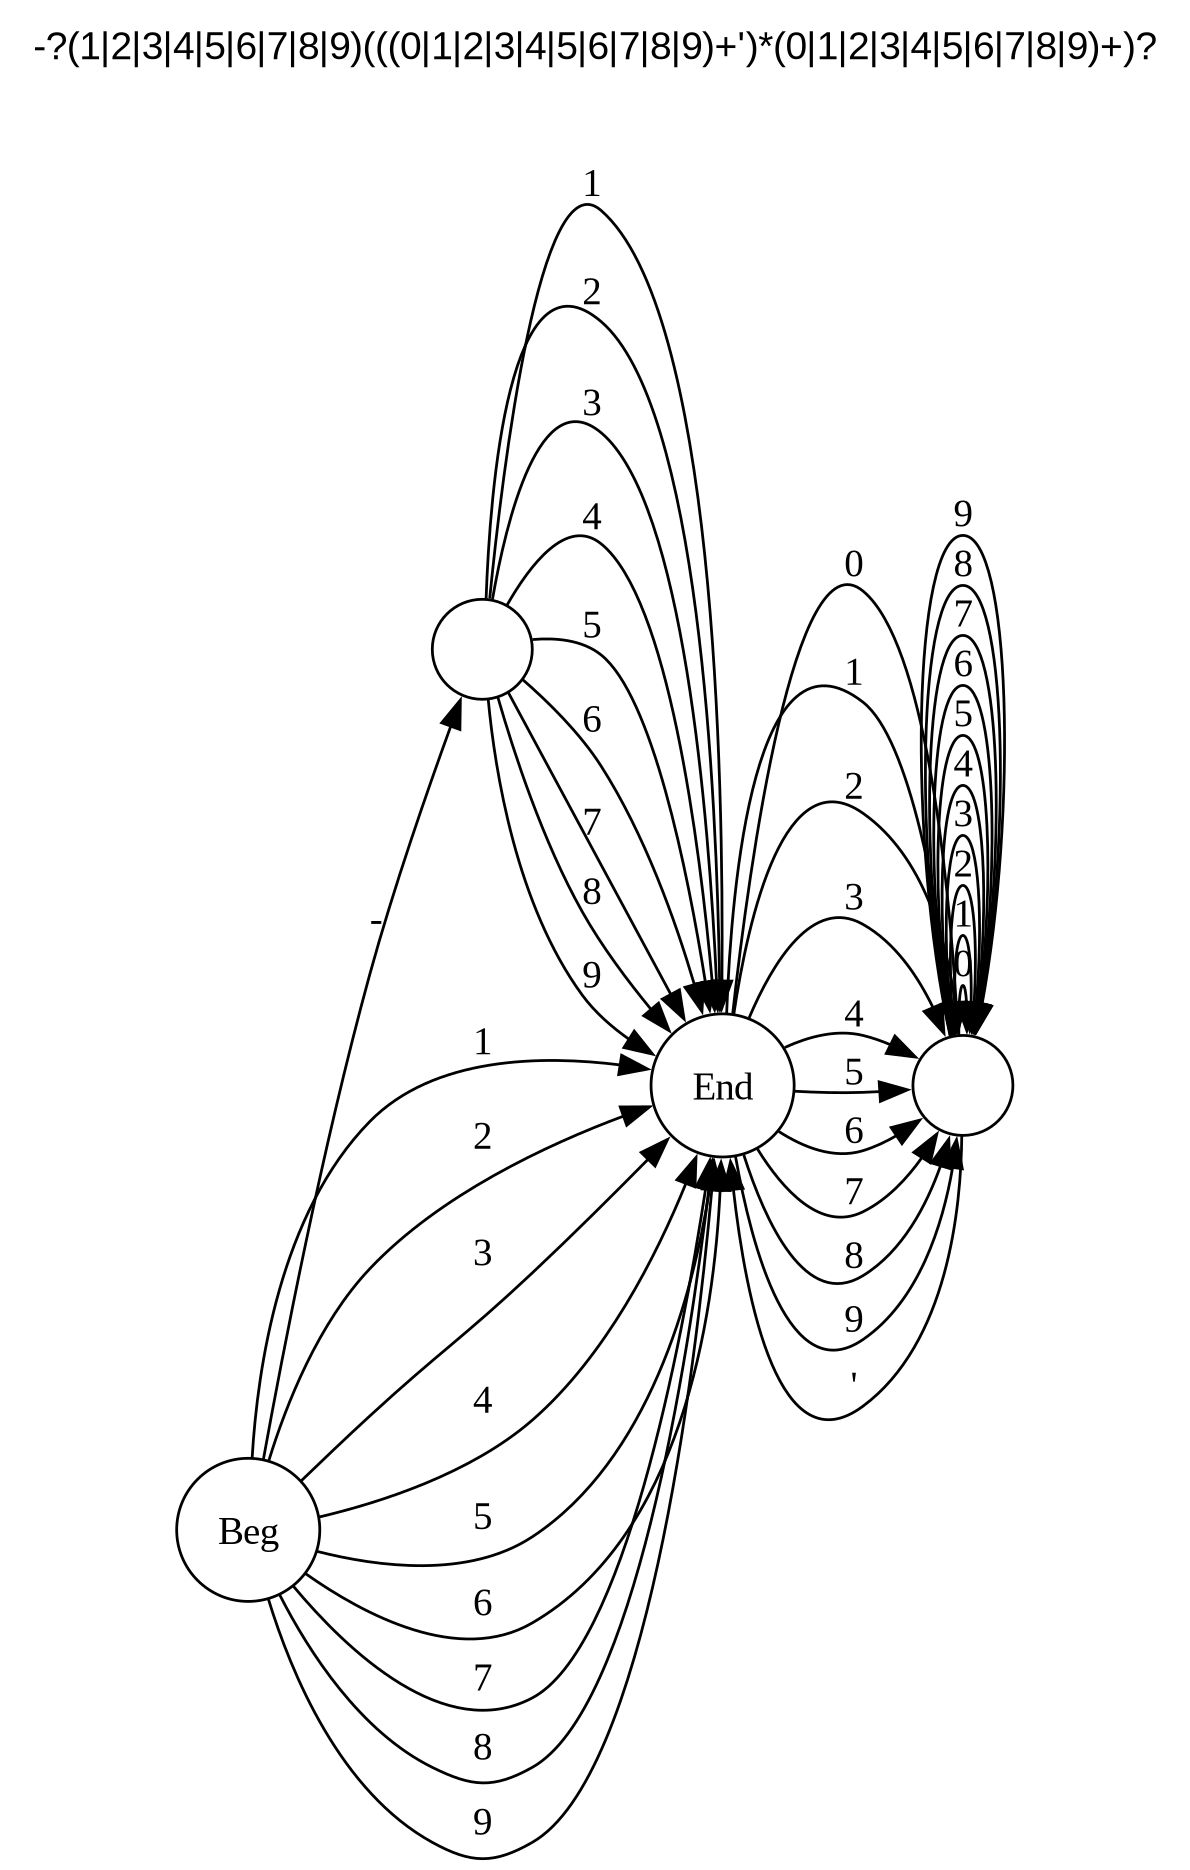
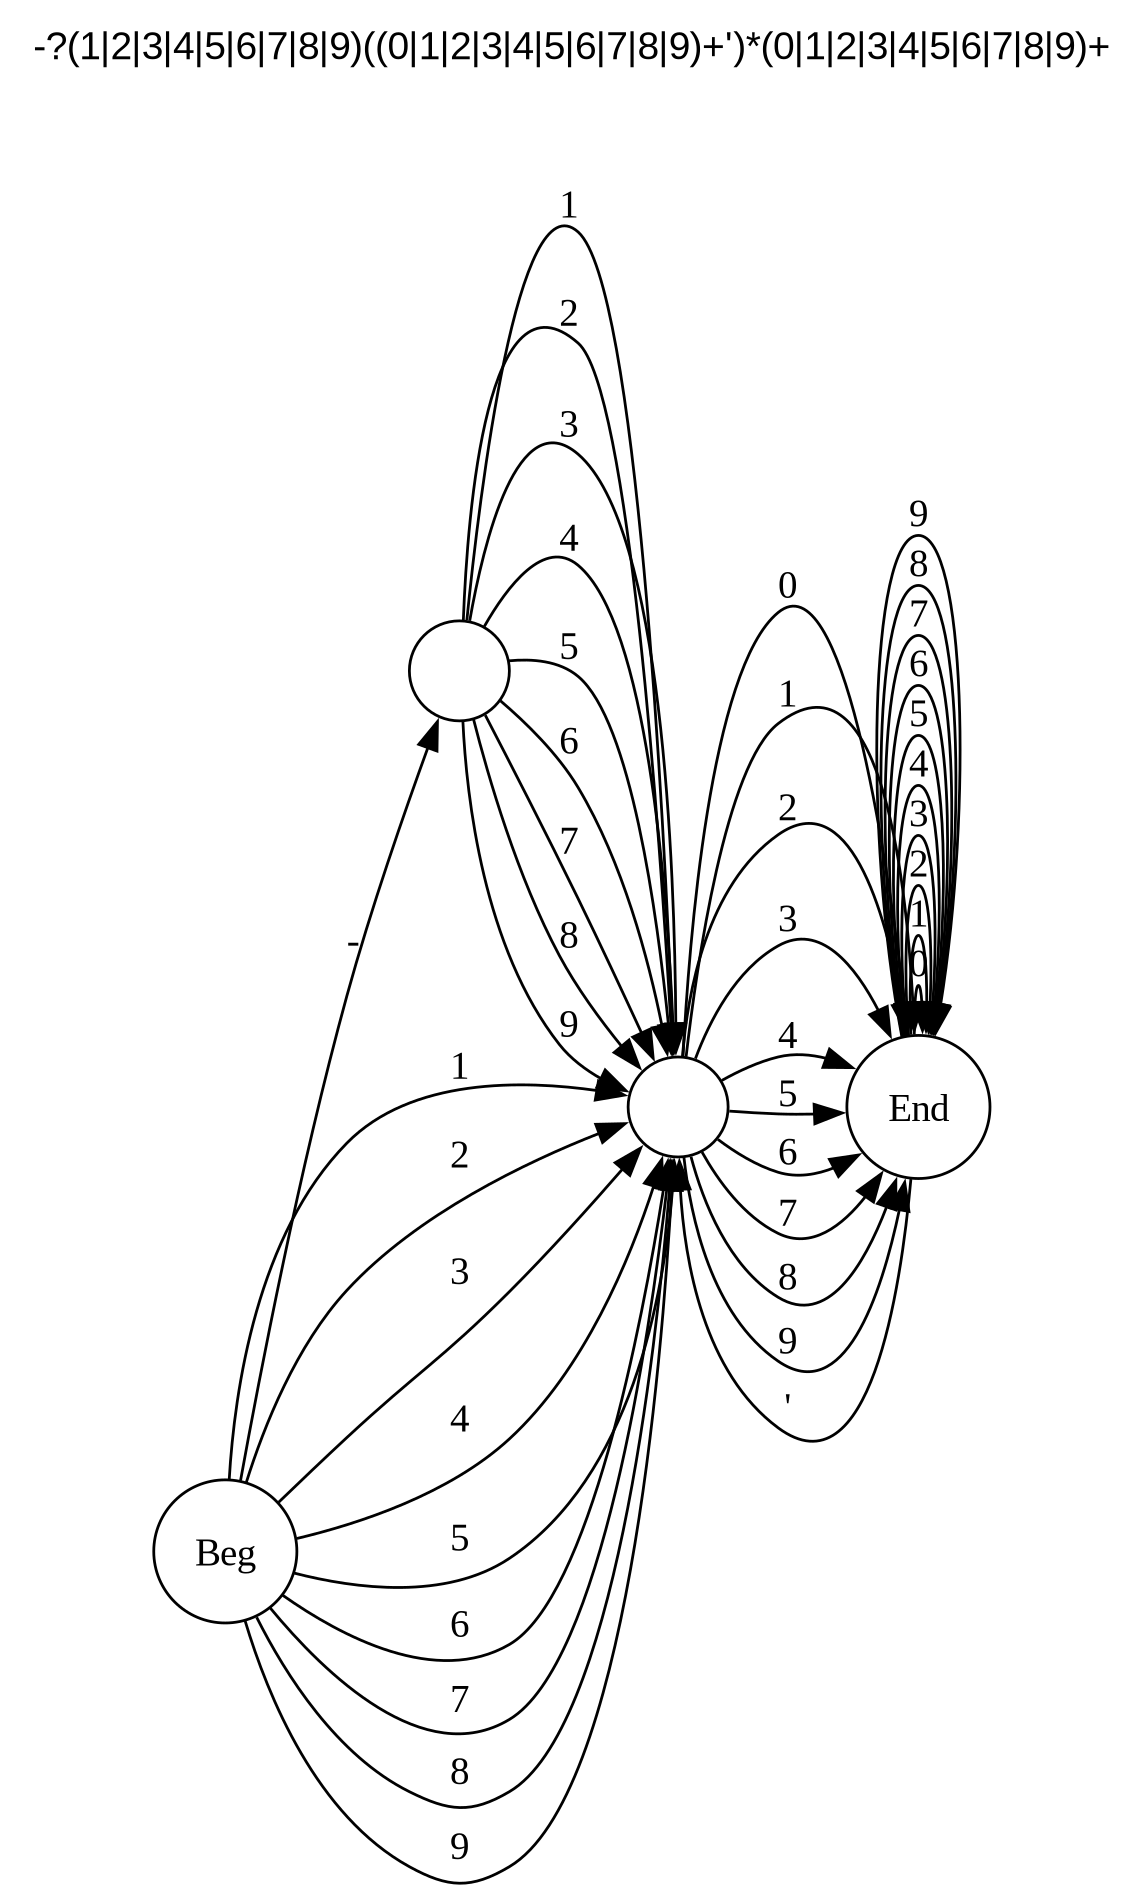
Finished regex int literal example

diff --git a/regex_main.cpp b/regex_main.cpp
@@ -23,17 +23,15 @@ namespace clk = std::chrono;
     "B|C|D|E|F|G|H|I|J|K|L|M|N|O|P|Q|R|S|T|U|V|W|X|Y|Z)"
 #define S "( |\t|\n)"
 
-#define H "(a|b|c|d|e|f|A|B|C|D|E|F)"
-#define HEX_RE "0(x|X)((" H "|" D ")+')*(" H "|" D ")+"
-#define OCTAL_RE                                               \
-    "(0|(0((0|1|2|3|4|5|6|7)+')*(0|1|2|3|4|5|6|7)+))"
+#define H "(a|b|c|d|e|f|A|B|C|D|E|F|0|1|2|3|4|5|6|7|8|9)"
+#define O "(0|1|2|3|4|5|6|7)"
+
+#define HEX_RE "0(x|X)(" H "+')*" H "+"
+#define OCTAL_RE "(0|0(" O "+')*" O "+)"
 #define BINARY_RE "0(b|B)((0|1)+')*(0|1)+"
-#define DECIMAL_RE                                             \
-    "-?(1|2|3|4|5|6|7|8|9)(((0|1|2|3|4|5|6|7|8|9)+')*(0|1|2|"  \
-    "3|4|5|6|7|8|9)+)?"
+#define DECIMAL_RE "-?(1|2|3|4|5|6|7|8|9)(" D "+')*" D "+"
 #define INT_RE                                                 \
-    "((" HEX_RE ")|(" DECIMAL_RE ")|(" OCTAL_RE                \
-    ")|(" BINARY_RE "))"
+    "(" HEX_RE "|" DECIMAL_RE "|" OCTAL_RE "|" BINARY_RE ")"
 
 ////////////////////////////////////////////////////////////////
 // Helper function(s)
@@ -154,18 +152,20 @@ int main()
     test_regex(OCTAL_RE, {"01'234'567'654", "0", "0'1'2'3"},
                {"012345678", "01234567'"});
 
-    test_regex(DECIMAL_RE, {}, {});
+    test_regex(DECIMAL_RE,
+               {"10", "-123", "516", "-9999", "-19'92"},
+               {"0", "-0", "12349A"});
 
     test_regex(HEX_RE, {"0x12'34'56'67'9A'bC'dd'ee'FF", "0x0"},
                {"0xG", "0x"});
 
     // Int literal example
     test_regex(INT_RE,
-               {"0", "123", "0123", "0x123", "0b1010", "0'1",
-                "0B1010'1010'1", "100", "0x0", "201", "200"},
+               {"123", "0123", "0x123", "0B1010'1010'1", "100",
+                "0x0", "201", "200"},
                {"foo", "0xGorilla", "'0101010'", "0x", "0b", "",
                 "char", "0b1010'1002", "0xx0", "0xG", "10.0",
-                "100'", "100 0"});
+                "100 0"});
 
     std::cout << "All tests of RegEx via TokEx passed.\n";
 
